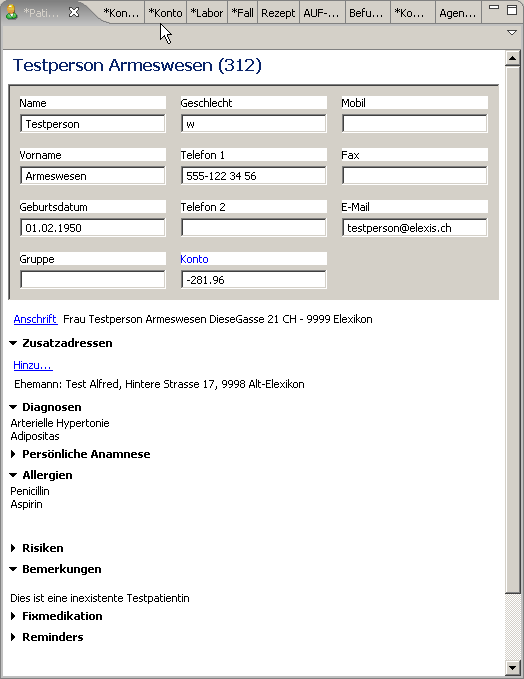
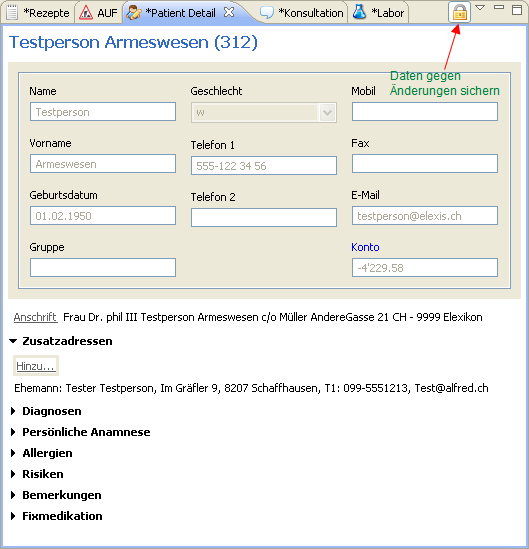
[svn] Aenderung für 1.4

diff --git a/dokumentation/views/stammdaten.tex b/dokumentation/views/stammdaten.tex
@@ -8,7 +8,7 @@
 % * Contributors:
 % *    G. Weirich - initial implementation
 % *
-% *  $Id: stammdaten.tex 4896 2009-01-02 08:23:59Z rgw_ch $
+% *  $Id: stammdaten.tex 4898 2009-01-02 15:15:33Z rgw_ch $
 % *******************************************************************************
 % !Mode:: "TeX:UTF-8" (encoding info for WinEdt)
 
@@ -24,7 +24,8 @@ die als Patient markiert sind.
 	\caption{Patientenliste}
 	\label{fig:patlist}
 \end{figure}
-Die Eingabefelder oben (Name, Vorname, Geburtsdatum) dienen dem Filtern der
+
+Die Eingabefelder oben (Name, Vorname, Geburtsdatum) dienen dem Begrenzen der
 Liste gemäss den gewünschten Parametern.
 \begin{itemize}
   \item Bei Name und Vorname gilt:
@@ -54,12 +55,9 @@ entsprechen, dann wird in der Liste angezeigt: \glqq keine Daten\grqq.
 \index{Patient Nr} \index{Patientenliste!filtern}
 Sie können per Voreinstellungen die angezeigten Filterfelder beeinflussen (S. \ref{userconfig} auf S. \pageref{userconfig}).
 
-\subsubsection{Markierungen / Etiketten}
+\subsubsection{Markierungen / Sticker}
 \index{Patienten!markieren}\index{Patienten!hervorheben}
-Sie können die Anzeige der Patienteneinträge anhand bestimmter Kriterien beeinflussen. Diese Technik nennen wir hier 'Etiketten'. Jeder Patient kann null bis mehrere Etiketten haben, die dann sowohl in der Patientenliste als auch im Konsultationseintrag angezeigt werden. Genauere Angaben dazu finden Sie unter \ref{Etiketten} auf S. \pageref{Etiketten};
-
-Wie man Etiketten erstellen kann, ist in
-Etiketten werden im Menü textsc{Datei-Einstellungen-Etiketten} erstellt.
+Sie können die Anzeige der Patienteneinträge anhand bestimmter Kriterien beeinflussen. Diese Technik nennen wir hier 'Sticker'. Jeder Patient kann null bis mehrere Sticker haben, die dann sowohl in der Patientenliste als auch im Konsultationseintrag angezeigt werden können. Genauere Angaben dazu finden Sie unter \ref{Etiketten} auf S. \pageref{Etiketten};
 
 \subsubsection{Toolbar}
 \begin{itemize}
@@ -78,7 +76,7 @@ Etiketten werden im Menü textsc{Datei-Einstellungen-Etiketten} erstellt.
         \begin{minipage}{0.5\textwidth}
         \centering
     	\includegraphics[width=0.8\textwidth]{images/patlistfilter}
-    	\caption{Filterbedingungen eingeben}
+    	\caption{Filterbox öffnen}
     	\label{fig:patlistfilter}
         \end{minipage}\hfill
         \begin{minipage}{0.5\textwidth}
@@ -91,32 +89,24 @@ Etiketten werden im Menü textsc{Datei-Einstellungen-Etiketten} erstellt.
 
 Sie können den Filter auf verschiedene Weise beeinflussen:
 \begin{itemize}
-\item Nach Klick auf 'Feld...' öffnet sich eine Dialogbox wie in Abb. \ref{fig:filterexpr}. Sie können hier beliebige Datenbankfelder abfragen. Hierbei bedeutet '=': Der Ausdruck muss genau so sein, inklusive Gross/Kleinschrift. 'LIKE': Der Ausdruck muss so anfangen, Gross/Klein ist egal. 'REGEXP: Der Ausdruck soll mals regulärer Ausdruck interpretiert werden. Eine Erläuterung dieses Konzepts würde hier aber zu weit führen.
+\item Nach Klick auf 'Feld...' öffnet sich eine Dialogbox wie in Abb. \ref{fig:filterexpr}. Sie können hier beliebige Datenbankfelder abfragen. Hierbei bedeutet '=': Der Ausdruck muss genau so sein, inklusive Gross/Kleinschrift. 'LIKE': Der Ausdruck muss so anfangen, Gross/Klein ist egal. 'REGEXP: Der Ausdruck soll als regulärer Ausdruck interpretiert werden. Eine Erläuterung dieses Konzepts würde hier aber zu weit führen.
 \item Nach Klick auf 'Sticker' öffnet sich eine Dialogbox, die alle im System definierten Sticker enthält. Sie können ein oder durch mehrfachen Aufruf auch mehrere auswählen.
-\item Sie können ein Script aus der Sctip-View ins Filterfeld hineinziehen, welches beliebige Bedinungen errechnen kann.
+\item Sie können ein Script aus der Script-View (s. \ref{Script} auf S. \pageref{Script} ins Filterfeld hineinziehen, welches beliebige Bedingungen errechnen kann.
 \end{itemize}
 
-Die Filterbedingungen werden strikt von oben nach unten abgearbeitet. Also der als zweites eingegebene Filterausdruck wird überhaupt nur dann ausgewertet, wenn der erste passiert wurde. Es ist deswegen sinnvoll, weniger rechenintensove Filter (z.B. Sticker) oben und rechenintensivere (z.B. Scripts) weiter unten einzusetzen.
-Klicken Sie dann auf einen der Spaltenköpfe um die Liste neu - diesmal beeinflusst durch den Filter- einzulesen.
+Die Filterbedingungen werden strikt von oben nach unten abgearbeitet. Also der als zweites eingegebene Filterausdruck wird überhaupt nur dann ausgewertet, wenn der erste passiert wurde. Es ist deswegen sinnvoll, weniger rechenintensive Filter (z.B. Sticker) oben und rechenintensivere (z.B. Scripts) weiter unten einzusetzen.
+Klicken Sie dann auf einen der Spaltenköpfe oder auf das 'x', um die Liste neu - diesmal beeinflusst durch den Filter- einzulesen.
 
 \medskip
 
 Um eine Filterbedingung wieder zu entfernen können Sie sie rechts anklicken  und 'entfernen' klicken. Um alle zu entfernen, klicken Sie auf 'leeren'. Um den Filter nur temporär ausziuschalten, ohne ohn zu leeren, schliessen Sie ihn durch Klick auf den Filter-Knopf.
 
-\subsubsection{View-Menü}
-Das lokale Menü (s. Abb. \ref{fig:patlist}) enthält folgende Einträge:
-\begin{itemize}
-  \item Patient löschen (sofern der angemeldete Anwender die hierfür notwendigen
-  Rechte hat): Damit kann ein Patienteneintrag definitiv und unwiderruflich aus
-  der Datenbank gelöscht werden. Dies ist nur dann möglich, wenn zu diesem
-  Patienten keine Fälle (mehr) existieren.
-  \item Liste filtern: Dies öffnet ebenfalls die Filter-Dialogbox (s.o.)
-\end{itemize}
 
 \subsubsection{Kontextmenü}
 Das Kontextmenü erscheint, wenn Sie auf einem Pa\-tien\-ten\-eintrag mit der rech\-ten
 Maus\-taste klicken. Es enthält fol\-gende Ein\-träge:
 \begin{itemize}
+    \item Sticker... Sie können dem Patienten so einen Sticker (S. \ref{Etiketten}) zuweisen oder entfernen.
   \item Patient löschen (s. oben)\footnote{Sie benötigen dazu das Recht \textsc{Löschen/Kontakt} (Vgl. \ref{sec:gruppen})}
   \item KG exportieren. Falls ein Export-Plugin installiert ist, wird die KG des
   aktuell markierten Patienten über dieses Plugin exportiert. Falls mehrere
@@ -130,17 +120,22 @@ Maus\-taste klicken. Es enthält fol\-gende Ein\-träge:
 Diese View (Abb. \ref{fig:patdetail} zeigt Details des momentan ausgewählten
 Patienten resp. der momentan ausgewählten Patientin an
  %\usepackage{graphics} is needed for \includegraphics
-\begin{figure}[htp]
-\begin{center}
-  \includegraphics[width=0.9\textwidth]{images/patdetail}
+
+\begin{figure}[t]
+\centering
+  \includegraphics[width=0.8\textwidth]{images/patdetail}
   \caption{Patient Detailansicht}
   \label{fig:patdetail}
-\end{center}
+  \hfill
+
 \end{figure}
-Alle Felder können durch einfaches Überschreiben geändert werden, sofern der
-aktuell eingeloggte Anwender die dazu erforderlichen Rechte besitzt. Eine
+
+Sie sehen, dass die einzelnen Einträge grau erscheinen und icht geändert werden können . Wenn Sie auf das Schloss-Symbol rechts oben klicken, können Sie die View entsperren (sofern Sie die entsprechenden Rechte besitzen). Dann können 
+alle Felder können durch einfaches Überschreiben geändert werden. Eine
 Änderung wird in dem Moment gespeichert, in dem ein Feld wieder verlassen wird.
-(Explizites Speichern ist in Elexis nie notwendig).
+(Explizites Speichern ist in Elexis nie notwendig). Bei erneutem Klick auf das Schloss, oder bei Auswahl eines anderen Patienten, wird die Sicherung gegen versehentliches Überschreiben wieder eingeschaltet.
+
+\medskip
 
 Die Felder im oberen Block sind alle einzeilige Textfelder und können direkt geändert
 werden, bis auf das Feld \glqq Konto\grqq{}, welches nicht direkt beschreibbar
@@ -154,7 +149,7 @@ von Rechnungen und Einlesen von ESR-Files. Manuelle Buchungen können zu
 Inkonsistenzen in der Buchhaltung führen. Führen Sie also nur dann manuelle
 Buchungen durch, wenn Sie sich über die Konsequenzen exakt bewusst sind.
 
-Das Feld \glqq Anschrift\grqq{} zeigt die Postanschrift des Patienten an. Diese
+Das Feld \glqq Anschrift\grqq{} zeigt die Postanschrift\footnote{Postanschrift ist das, was auf Briefumschlägen und Adressetiketten erscheint, muss also nicht unbedingt den eingegebenen Adressdaten entsprechen. Beispielsweise könnte hier noch c/o oder ein Postfach oder eine Kontaktperson stehen.} des Patienten an. Diese
 kann durch Klick auf den blauen Text \glqq Anschrift \grqq{}geändert werden.
 
 Die darunterstehenden Felder sind alle aufklappbar: Standardmässig ist nur der
@@ -169,7 +164,7 @@ Titel sichtbar, durch Klick darauf öffnet sich das Feld.
   Mit Rechtsklick auf einen Eintrag in diesem Feld öffnet sich ein Kontextmenü,
   mit dem man den vollständigen Eintrag anzeigen, oder den Eintrag entfernen kann.
   \item Die Felder \glqq Diagnose\grqq, \glqq Persönliche Anamnese\grqq{},
-  \glqq Allergien\grqq{}, \glqq Risiken\grqq{} und \glqq Bemerkungen \footnote{Falls in \textit{Bemerkungen} irgendwo :VIP: (mit den Doppelpunkten) steht, so wird der betreffende Pat. in roter Schrift angezeigt.}\grqq{}
+  \glqq Allergien\grqq{}, \glqq Risiken\grqq{} und \glqq Bemerkungen \grqq{}
   können direkt beschrieben werden und werden wie gewohnt sofort beim Verlassen
   gespeichert.
   \item Das Feld \glqq Fixmedikation\grqq{}entspricht der View Fixmedikation.

diff --git a/dokumentation/tour/patneu.tex b/dokumentation/tour/patneu.tex
@@ -8,7 +8,7 @@
 % * Contributors:
 % *    G. Weirich - initial implementation
 % *
-% *  $Id: patneu.tex 4825 2008-12-17 16:42:46Z rgw_ch $
+% *  $Id: patneu.tex 4898 2009-01-02 15:15:33Z rgw_ch $
 % *******************************************************************************
 % !Mode:: "TeX:UTF-8" (encoding info for WinEdt)
 
@@ -17,7 +17,8 @@ Nach einem kurzen Moment erscheint ein Fenster etwa wie in Abb. \ref{fig:startbi
 Demo-Datenbank verwenden, andernfalls sind die Fenster natürlich
 leer).\footnote{Die meisten Abbildungen dieser Tour entstammen Windows XP. Unter anderen Betriebssystemen wird das Aussehen leicht abweichend sein.}
  \begin{figure}[ht]
-	%\includegraphics[width=0.8\textwidth]{images/einf0}
+    \center
+	\includegraphics[width=0.9\textwidth]{images/einf0}
     %\includegraphics{images/einf0}
 	\caption{Elexis Startbildschirm}
 	\label{fig:startbild}
@@ -28,10 +29,10 @@ leer).\footnote{Die meisten Abbildungen dieser Tour entstammen Windows XP. Unter
 	\caption{Patientennamen eingeben}\label{fig:patname}
 \end{wrapfigure}
 Aktivieren sie mit einem Klick die Ansicht 'Patienten' und schreiben Sie in die Eingabefelder Name und Vorname der neuen Patientin.
-Falls die Patientin schon einmal erfasst worden ist erscheint ihr Name, in unserem Fall, wo keine Patientin dieses Namens vorhanden ist, wird \glqq Keine Daten\grqq{}angezeigt (s. Abb. \ref{fig:patname}).
+Falls die Patientin schon einmal erfasst worden ist erscheint ihr Name, in unserem Fall, wo keine Patientin dieses Namens vorhanden ist, werden unten keine Einträge angezeigt (s. Abb. \ref{fig:patname})\footnote{Um die Eingabefelder zu leeren und wieder alle Patienten anzuzeigen, können Sie auf das rote 'x' links neben den Eingabefeldern klicken.}.
 
 \index{Patient!neu}
-Klicken Sie dann auf den roten Stern oben rechts, um eine Patientin mit diesen
+Klicken Sie dann auf das grüne Plus-Symbol oben rechts, um eine Patientin mit diesen
 Daten neu anzulegen. Es erscheint ein Dialogfenster (Abb. \ref{fig:patdata}), wo
 Sie die Angaben in die entsprechenden Felder eingeben können.\\
 \bigskip
@@ -58,9 +59,9 @@ die Konsultation zugeordnet werden kann.
        \caption{Fälle-Ansicht}
        	\label{fig:faelle1}
      \end{minipage}\hfill
-     \begin{minipage}{0.5\textwidth}
+     \begin{minipage}{0.6\textwidth}
       \centering
-       \includegraphics[width=0.8\textwidth]{images/einf4}
+       \includegraphics[width=1.0\textwidth]{images/einf4}
        \caption{Fall-Detail}
        \label{fig:falldetail}
      \end{minipage}
@@ -69,7 +70,7 @@ die Konsultation zugeordnet werden kann.
 
 Ein Fall sammelt alle Konsultationen, die mit einem gemeinsamen Abrechnungssystem erfasst werden. (Vgl. \ref{settings:abrechnungssystem} auf S. \pageref{settings:abrechnungssystem}).
 Klicken Sie also in der \glqq Fälle\grqq{}-Ansicht
-(Abb. \ref{fig:faelle1}) auf den \glqq Neu\grqq{}-Stern.
+(Abb. \ref{fig:faelle1}) auf das grüne Plus-Symbol.
 
 Dadurch öffnet sich ein Dialog, in dem Sie wiederum die Angaben eintragen
 können, soweit diese Ihnen bekannt sind (Abb. \ref{fig:falldetail})
@@ -78,9 +79,12 @@ Spätestens zur Rechnungsstellung müssen dann allerdings die notwendigen Angabe
 eingegeben werden.
 Nach dem Klick auf OK haben Sie den neuen Fall erstellt. Bei weiteren
 Konsultationen kann man sich diesen Schritt natürlich sparen.\\
+
 \bigskip
+
 Als nächstes erstellen wir eine neue Konsultation, wieder mit dem nun schon
-bekannten Stern-Symbol (Abb. \ref{fig:neuekons}.
+bekannten grünen Plus-Symbol (Abb. \ref{fig:neuekons}.
+
 \index{Konsultation!neu}
 \begin{figure}[ht]
 	\includegraphics{images/einf5}
@@ -88,7 +92,9 @@ bekannten Stern-Symbol (Abb. \ref{fig:neuekons}.
 	\label{fig:neuekons}
 \end{figure}
 \pagebreak[2]
+
 Danach können wir mit dem KG-Eintrag beginnen (Abb. \ref{fig:KG}).
+
 \section{Krankengeschichte führen}
 \begin{figure}
     \begin{center}

diff --git a/dokumentation/settings.tex b/dokumentation/settings.tex
@@ -8,7 +8,7 @@
 % * Contributors:
 % *    G. Weirich - initial implementation
 % *
-% *  $Id: settings.tex 3999 2008-06-03 11:35:41Z rgw_ch $
+% *  $Id: settings.tex 4898 2009-01-02 15:15:33Z rgw_ch $
 % *******************************************************************************
 %
 % !Mode:: "TeX:UTF-8" (encoding info for WinEdt)
@@ -232,26 +232,7 @@ Erst wenn alle benötigten Parameter vorhanden sind, wird der errechnete Wert ei
 \end{figure}
 
 \section{Leistungscodes}
-Dies ist wieder eine Sammelrubrik, die je nach vorhandenen Plugins für die Leistungsabrechnung unterschiedlich gefüllt sein kann. In der Schweiz ist hier standardmössig Labortarif und Tarmed vorhanden. Diese sind auf Seite \pageref{arzttarife} genauer erklärt.
+Dies ist wieder eine Sammelrubrik, die je nach vorhandenen Plugins für die Leistungsabrechnung unterschiedlich gefüllt sein kann. In der Schweiz ist hier standardmässig Labortarif und Tarmed vorhanden. Diese sind auf Seite \pageref{arzttarife} genauer erklärt.
+
 \section{Textverarbeitung}
 Auch die verwendete Textverarbeitung für Briefe etc. ist in Elexis ja durch Plugins frei definierbar. Welche Textverarbeitung verwendet werden soll, kann hier eingestellt werden. Diese Einstellung sollte normalerweise nicht mehr verändert werden, wenn erste Dokumente erstellt wurden, da diese sonst eventuell nicht mehr ohne weiteres lesbar wären. Wir empfehlen, unter Windows das Plugin NOAText und unter Linux Office-Wrapper zu verwenden.
-\section{Update-Einstellungen}
-Elexis kann automatisch im Internet nach neuen Versionen des Kernprogramms und aller aktuell installierten Plugins suchen und diese ggf. auch automatisch herunterladen und installieren. Dieses Verhalten kann hier eingestellt werden.
-
-\begin{quote}
- \textit{Frage}: Beim Update kommt immer etwas wie \textit{32 Plugins ersetzt}, aber es wird nicht die neue Version geladen. Wenn ich nochmal Update mache, kommt wieder dieselbe Nachricht.
-
-
- \textit{Antwort}: Die Auto-Update-Funktion geht nur dann korrekt, wenn der ausführende Anwender Schreibrechte auf das elexis-plugins-Verzeichnis hat. Andernfalls können die betreffenden Programmteile ja nicht ersetzt werden.
-
-Dies ist bei XP und Vista standardmässig \textit{nicht} der Fall, sofern der Anwender keine Administratorrechte hat.
-
-\textit{Vorgehen}: Als Administrator dem Anwender, der Update-Recht haben soll, Schreibrechte auf das elexis-plugins-Verzeichnis geben (Dieser Anwender braucht selber ansonsten keine Administratorrechte).
-\end{quote}
-
-\begin{itemize}
-\item{update-site} Hier müssen Sie angeben auf welcher Site Elexis nach updates sehen soll. Verwenden Sie normalerweise die Voreinstellung.
-\item{Alle (0-nie) Tage automatisch suchen} Wenn Sie hier einen Wert ungleich null eintragen, dann gibt dieser Wert die Zahl der Tage an, die Elexis vor einem automatischen Update verstreichen lässt. Wenn der Wert null ist, dann wird Elexis nie von allein einen update-Vorgang starten (Dieser kann aber trotzdem immer manuell im Menu \textsc{Datei-Update} ausgelöst werden).
-\item{Verzeichnis für Zwischenspeicherung} Dies gibt das Verzeichnis an, in dem Elexis hehruntergeladene Updates zwischenspeichern kann bis zum Programmende.
-\end{itemize}
-Da Elexis nicht Teile von sich selber im laufenden Betrieb austauschen kann, geht das Update so vor: Zu ersetzende Programmteile werden zunächst in einem Verzeichnis zwischengespeichert. Erst beim nächsten Programmende werden diese Änderungen eingespielt und stehen beim nächsten Programmstart zur Verfügung. Sie werden deshalb eventuell beim Programm beenden nach einem Update eine Meldung sehen, die besagt, dass Sie den PC noch nicht ausschalten sollen, bis Elexis den Update-Vorgang fertiggestellt hat.

diff --git a/dokumentation/konzepte.tex b/dokumentation/konzepte.tex
@@ -8,7 +8,7 @@
 % * Contributors:
 % *    G. Weirich
 % *
-% *  $Id: konzepte.tex 4896 2009-01-02 08:23:59Z rgw_ch $
+% *  $Id: konzepte.tex 4898 2009-01-02 15:15:33Z rgw_ch $
 % *******************************************************************************
 % !Mode:: "TeX:UTF-8" (encoding info for WinEdt)
 
@@ -80,7 +80,7 @@ genauer erklärt.
 \section{Konsultationen, Fälle, Garanten und Kostenträger}
 \index{Konsultation!Definition}\index{Fall!Definition}\index{Abrechnung}Jeder in Elexis festgehaltene Kontakt zwischen Praxispersonal und Patient ist eine \textit{Konsultation}. Wenn die Konsultation verrechnet wird, dann geht die Verrechnung zugunsten desjenigen Mandanten, für welchen der eingeloggte Anwender tätig war.
 \label{definition:fall}
-Jede Konsultation ist auch einem \textit{Fall} zugeordnet. Ein Fall ist hier eher eine versicherungstechnische, als eine medizinische Einheit: Der Fall sammelt alle Konsultationen, welche mit demselben Abrechnungssystem (s. \ref{settings:abrechnungssystem} auf S. \pageref{settings:abrechnungssystem}) abgerechnet werden. Dies kann manchmal identisch mit dem medizinischen Fallbegriff sein (Ein Unfall, welcher über einen bestimmten Versicherer mit einer bestimmten Fallnummer abgerechnet wird), oder er kann auch keinen Zusammenhang mit einem medizinischen Fall haben (z.B. wird in der Schweiz im Allgemeinen ein allgemeiner Fall \glqq Krankheit\grqq{} erstellt werden, der alle KVG-Konsultationen sammelt.
+Jede Konsultation ist auch einem \textit{Fall} zugeordnet. Ein Fall ist hier eher eine versicherungstechnische, als eine medizinische Einheit: Der Fall sammelt alle Konsultationen, welche mit demselben Abrechnungssystem (s. \ref{settings:abrechnungssystem} auf S. \pageref{settings:abrechnungssystem}) abgerechnet werden. Dies kann manchmal identisch mit dem medizinischen Fallbegriff sein (Ein Unfall, welcher über einen bestimmten Versicherer mit einer bestimmten Fallnummer abgerechnet wird), oder er kann auch keinen Zusammenhang mit einem medizinischen Fall haben (z.B. wird in der Schweiz im Allgemeinen ein allgemeiner Fall \glqq Krankheit\grqq{} erstellt werden, der alle KVG-Konsultationen sammelt).
 
 Ein Fall kann immer nur einen Patienten und ein Abrechnungssystem haben, kann aber durchaus  Konsultationen mehrerer Mandanten beinhalten. (Es wird dann für jeden Mandanten eine separate Rechnung erstellt).
 
@@ -260,4 +260,6 @@ Dieses Konzept wird auf Seite \pageref{expl:plugins} genauer besprochen. Hier nu
 
 Ein Elexis-Plugin ist also einfach ein Programm mit im Prinzip beliebigen Fähigkeiten, welches die Eigenschaft hat, mit Elexis zusammenarbeiten zu können.
 
-Es kann weder in diesem Handbuch noch sonstwo eine abschliessende Aufzählung aller Plugins geben, weil niemand wissen kann, welche Plugins von unabhängigen Anwendern bei unabhängigen Programmierern in Auftrag gegeben worden sind. 
+Es kann weder in diesem Handbuch noch sonstwo eine abschliessende Aufzählung aller Plugins geben, weil niemand wissen kann, welche Plugins von unabhängigen Anwendern bei unabhängigen Programmierern in Auftrag gegeben worden sind.  Eine Auflistung zumindest der uns bekannten Plugins finden Sie jeweils auf http://www.elexis.ch
+ 
+ 

diff --git a/dokumentation/appendix/advanced.tex b/dokumentation/appendix/advanced.tex
@@ -1,0 +1,18 @@
+% *******************************************************************************
+% * Copyright (c) 2007 by Elexis
+% * All rights reserved. This document and the accompanying materials
+% * are made available under the terms of the Eclipse Public License v1.0
+% * which accompanies this distribution, and is available at
+% * http://www.eclipse.org/legal/epl-v10.html
+% *
+% *  $Id: voraussetzungen.tex 3094 2007-09-04 10:03:03Z rgw_ch $
+%
+%*******************************************************************************
+% !Mode:: "TeX:UTF-8" (encoding info for WinEdt)
+
+\section{Scripting}
+\index{Script}\label{Script}\index{BeanShell}
+Elexis kann durch Scripts erweitert werden. Scripts sind sofort ausührbare Miniprogramme, die bestimmte einfache Aufgaben erledigen können. Als Scriptinterpreter wird Beanshell (http://www.beanshell.org) verwendet. Eine genauere Beschreibung dieses Konzepts würde hier zuweit führen; lesen Sie ggf. auf http://www.rgw.ch/elexis/dox/elexis-scripting.pdf nach und hier: http://www.elexis-forum.ch/viewtopic.php?t=107 finden Sie einige Beispiele.
+
+\bigskip
+Zum Editieren, Aufbewahren und Starten von Scripts gibt es die View 'Scripts'.

diff --git a/dokumentation/elexis.tex b/dokumentation/elexis.tex
@@ -8,7 +8,7 @@
 % * Contributors:
 % *    G. Weirich, U. Berner, D. Lutz
 % *
-% *  $Id: elexis.tex 4854 2008-12-25 07:41:42Z rgw_ch $
+% *  $Id: elexis.tex 4898 2009-01-02 15:15:33Z rgw_ch $
 % *******************************************************************************
 % !Mode:: "TeX:UTF-8" (encoding info for WinEdt)
 %
@@ -166,6 +166,9 @@ Falls Sie selber eine bestimmte Funktion benötigen, die in der Grundversion nic
 
 \chapter{Einstellungen}
 	\include{settings}
+
+\chapter{Weiterführende Themen}
+    \include{appendix/advanced}
 
 \chapter{Überlegungen zur Datensicherheit}	
 	\include{appendix/sicherheit}
